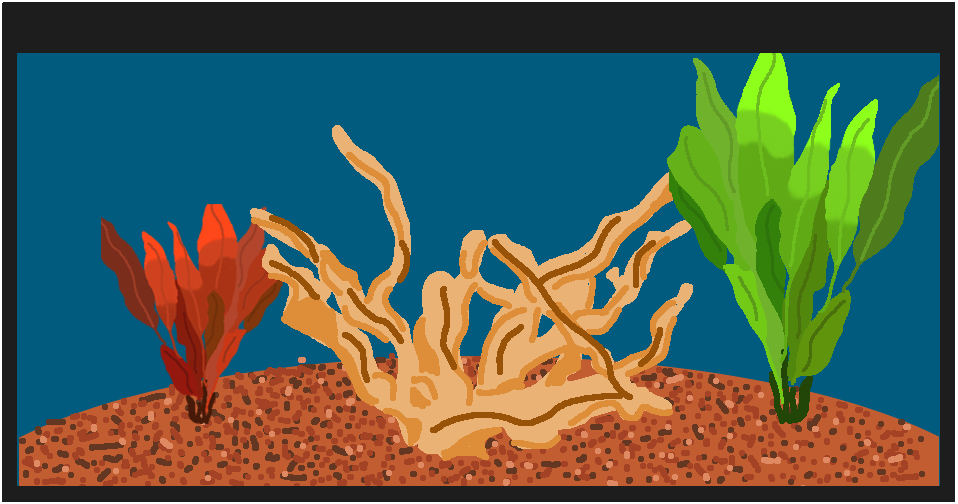
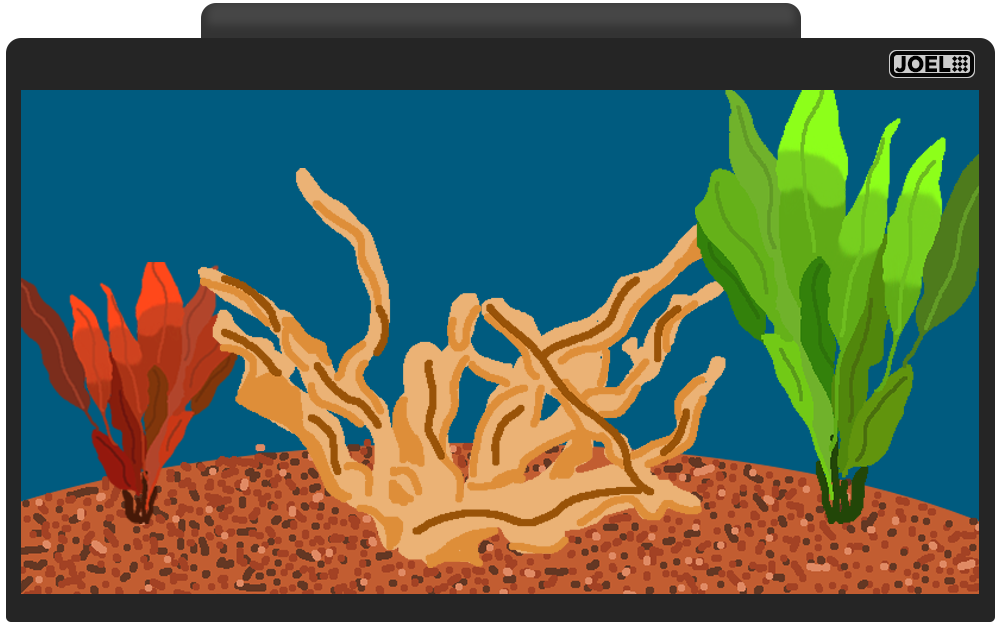
july 17

diff --git a/index.js b/index.js
@@ -104,21 +104,21 @@ function resizeCanvas() {
     canvas = document.getElementById("fishcontainer");
 //    canvas.width = 958;
 //    canvas.height = 504;
-    if (window.innerWidth > 1000) {
-        canvas.width = 958;
-        canvas.height = 504;
-    } else if (window.innerWidth > 800) {
-        canvas.width = 639;
-        canvas.height = 336;
-    } else if (window.innerWidth > 600) { 
-        canvas.width = 479;
-        canvas.height = 252;
-    } else if (window.innerWidth > 400) { 
-        canvas.width = 319;
-        canvas.height = 168;
-    } else if (window.innerWidth < 300){
-        canvas.width = 240;
-        canvas.height = 126;
+    if (window.innerWidth > 1050) {
+        canvas.width = 1000;
+        canvas.height = 625;
+    } else if (window.innerWidth > 850) {
+        canvas.width = 800;
+        canvas.height = 500;
+    } else if (window.innerWidth > 700) { 
+        canvas.width = 667;
+        canvas.height = 417;
+    } else if (window.innerWidth > 550) { 
+        canvas.width = 500;
+        canvas.height = 312;
+    } else if (window.innerWidth > 350){
+        canvas.width = 400;
+        canvas.height = 312;
     }
 }
 

diff --git a/index.css b/index.css
@@ -3,7 +3,7 @@ html {
 }
 
 body{
- background-image: url(img/fish-pattern.jpg);
+ background-image: url(img/fish\ pattern\ 2.jpg);
  background-size: 400px;
  background-repeat: repeat;
 }
@@ -89,7 +89,7 @@ canvas {
   margin-right: auto;
   margin-top: 40px;
   display: block;
-  background-image: url(img/fishtankbackground.jpg);
+  background-image: url(img/fishtank.png);
   background-size: 100% 100%;
 }
 
@@ -109,7 +109,7 @@ canvas {
 hr.rounded {
   border-top: 5px solid #F0F0F0;
   border-radius: 5px;
-  max-width: 60%;
+  max-width: 50%;
 }
 
 @media only screen and (max-width: 600px) {
